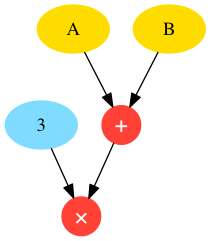
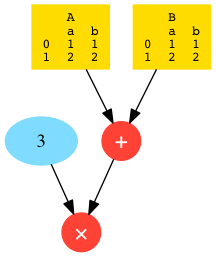
An idea for rendering df.head() ...

diff --git a/expr/expressions.py b/expr/expressions.py
@@ -163,7 +163,12 @@ class NumExpr(ExprBase):
 class DataFrameExpr(ExprBase):
     __type__ = 'DataFrameExpr'
     serialisable_attrs = ('__type__', 'dataframe')
-    node_opts = {'colour': '#FFDC00'}  # Yellow
+    node_opts = {
+        'shape': 'box',
+        'fontsize': '10',
+        'fontname': 'Courier',
+        'colour': '#FFDC00',  # Yellow
+    }
 
     def __init__(self, dataframe, name='auto', **kwargs):
         if not isinstance(dataframe, pandas.DataFrame):
@@ -175,8 +180,11 @@ class DataFrameExpr(ExprBase):
     @property
     def node_name(self):
         if self.name is 'auto':
-            return "df@{0}".format(hex(id(self.dataframe)))
-        return self.name
+            name = "df@{0}".format(hex(id(self.dataframe)))
+        else:
+            name = self.name
+        df_head = self.dataframe.head(2).to_string().encode('utf-8')
+        return "{0}\n{1}".format(name, df_head)
 
     def to_dict(self):
         return {
